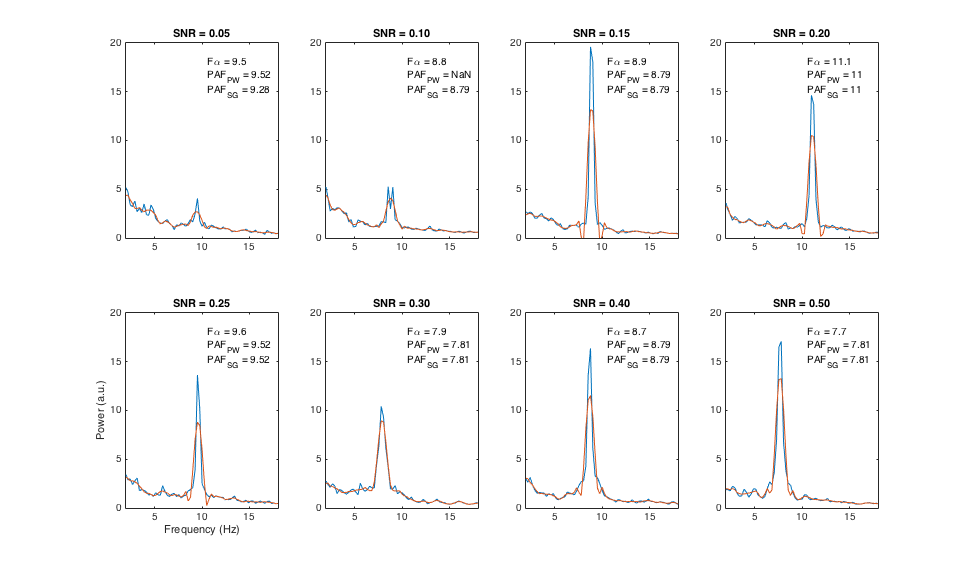
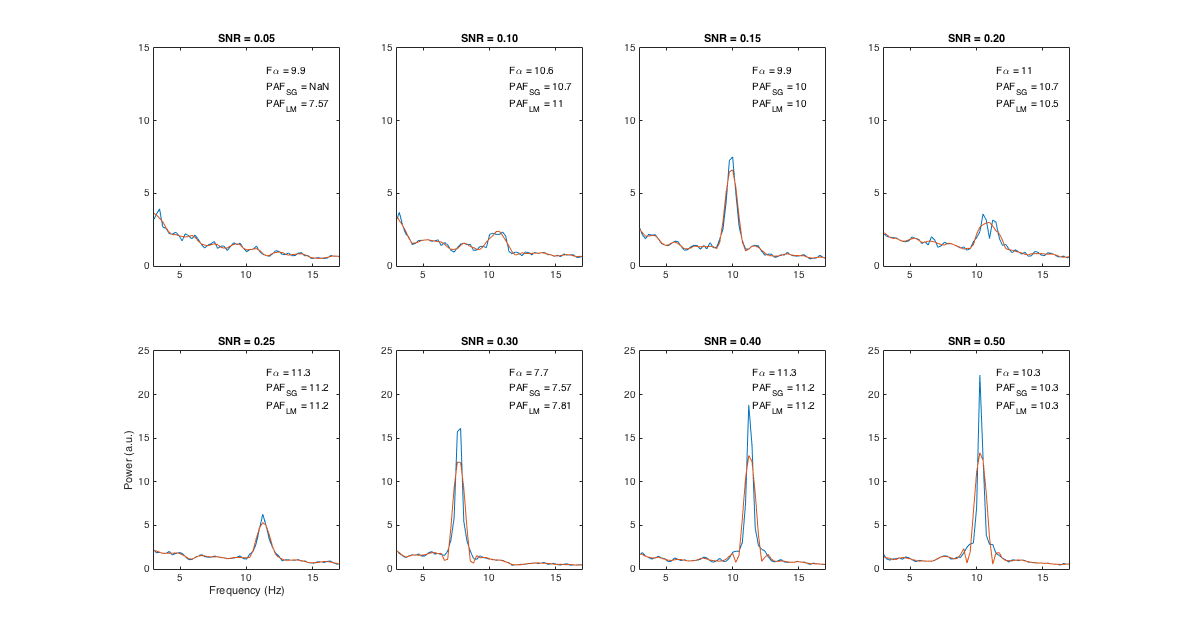
introduce local max routine into prelim sims

diff --git a/iaf_manu.md b/iaf_manu.md
@@ -69,7 +69,7 @@ The definition of both $A$ and $\phi$ pose non-trivial problems (more on which s
 PAF estimates are typically extracted from parieto-occipital EEG channels while the participant relaxes with their eyes closed.
 This strategy exploits the classic observation that alpha oscillations dominate EEG recorded over centro-posterior scalp regions when visual sensory input is suppressed [@barry2007;@sadaghiani2016].
 Although PAF can often be rapidly ascertained upon visual inspection of the PSD function ([Fig_pafs](#pafs)), this approach to IAF extraction is inefficient and potentially impractical when dealing with large datasets [@chiang2008;@goljahani2012]. 
-Moreover, it is well documented that a sizeable proportion of individuals fail to manifest an unambiguous PAF, on account of their being either two (or more) peaks within the alpha band [so-called ‘split-peaks’; @chiang2011], or a general absence of prominant alpha-band activity [e.g., @anokhin1996] (see [Fig_bad_pafs](#bad_pafs)).
+Moreover, it is well documented that a sizeable proportion of individuals fail to manifest an unambiguous PAF, on account of their being either two (or more) peaks within the alpha band [so-called ‘split-peaks’; @chiang2011], or a general absence of prominent alpha-band activity [e.g., @anokhin1996] (see [Fig_bad_pafs](#bad_pafs)).
 Under the former circumstances, the adjudicator<!-- AC: this term has proved controversial. i deliberately wanted to underscore the tacit subjectivity involved in judging whether a given PSD manifests a (singular) peak. i'm open to alteratives but would like to retain this connotation, if possible. --> must decide whether a single, primary peak can be justifiably discerned amidst competing peak candidates; under the latter, they must determine whether the signal is too noisy to derive reliable inferences pertaining to the IAF. 
 Relating back to the PAF formulation outlined above, these scenarios can be construed as the problem of evaluating whether the $\phi$ criterion has been satisfied (or alternatively, of determining the correct threshold level where this criterion ought to be located).
 Such cases may be prone to biased or inconsistent assessment [@chiang2008], pose significant challenges to replicability, and can result in the exclusion of a substantial subset of participants from IAF-related analyses [see for e.g., @bornkessel-schlesewsky2015].
@@ -130,7 +130,7 @@ The first method, which we refer to as peak attenuation, was described by Posthu
 Similar in principle to Klimesch's [-@klimesch1999] delineation of the TF, this technique simply subtracts eyes-oped PSD estimates from the corresponding ordinates of the eyes-closed PSD within some a priori-defined target region (typically, this interval is extended beyond the canonical alpha bandwidth; e.g., 7–14 Hz).
 The resulting peak, which constitutes the maximal power difference between the two spectra, is taken as the PAF ([Fig_blocking](#blocking), top row). 
 To avoid trivial peaks arising from small fluctuations in the PSD, Posthuma and colleagues [-@posthuma2001] excluded spectra that featured consistent low power (< 1.5 $\mu$V/Hz) within the alpha-band.
-It isn’t clear, however, whether this criterion (which is analagous to the $\phi$ parameter in the PAF equation defined above) was also applied in cases where the maximal difference between spectra was similarly small (i.e. where both spectra present a substantive, approximately overlapping alpha-band component).
+It isn’t clear, however, whether this criterion (which is analogous to the $\phi$ parameter in the PAF equation defined above) was also applied in cases where the maximal difference between spectra was similarly small (i.e. where both spectra present a substantive, approximately overlapping alpha-band component).
 Posthuma and colleagues [-@posthuma2001] also remarked that peak attenuation estimates deviated from eyes-closed resting-state PAFs in 21% of cases. 
 This lack of convergence, coupled with the observation that peak attenuation may lead to distorted representations of the PAF when the assumption of significant eyes-open alpha desynchronisation fails to obtain [see [Fig_blocking](#blocking), central and bottom row; cf. @gaal2010; @kreitman1965], suggests peak attenuation may constitute a suboptimal IAF estimator (at least insofar as IAF is conceived in terms of the PAF).
 
@@ -323,7 +323,7 @@ This criterion was formalised as follows:
 $$f_1 = f’(x) < |1| \text{ for } f(x_{j}...x_{k}),$$ 
 $$f_2 = f’(x) < |1| \text{ for } f(x_{k}...x_{l}),$$
 
-where $f(x_k)$ is the first encountered frequency bin where $f’(x) < -1$, $f(x_{j})$ is the frequency bin whose centre frequency is ~1 Hz below that of $f(x_{k})$, and $f(x_{l})$ is the frequency bin whose centre frequency is ~1 Hz above that of $f(x_{k})$ (exact scaling will depend on the frequency resolution of the analysis). <!-- AC: ? better way to notate this -->
+where $f(x_k)$ is the first encountered frequency bin where $f’(x) < |1|$, $f(x_{j})$ is the frequency bin whose centre frequency is ~1 Hz below that of $f(x_{k})$, and $f(x_{l})$ is the frequency bin whose centre frequency is ~1 Hz above that of $f(x_{k})$ (exact scaling will depend on the frequency resolution of the analysis). <!-- AC: ? better way to notate this -->
 $f_1$ and $f_2$ estimates from each eligible channel are averaged to yield the individualised alpha window.
 This window defines the index of summation (i.e. frequency band coverage) used to calculate the CoG across all available channels.
 
@@ -415,9 +415,14 @@ Hence, for an SNR of 1, each sample point of the composite signal was the produc
 
 We examined PAF estimation at SNR = 0.05, 0.10, 0.15, 0.20, 0.25, 0.30, 0.40, and 0.50.
 For each set of simulations, 1000 PSD estimates were generated using the afore-described method of embedding a singular alpha component within a pink noise signal.
-The frequency of each alpha signal was randomly assigned by sampling (with replacement) a vector of frequency values ranging from 7.5 to 12.5 Hz in 0.1 Hz interations.
+The frequency of each alpha signal was randomly assigned by sampling (with replacement) a vector of frequency values ranging from 7.5 to 12.5 Hz in 0.1 Hz iterations.
 Given that the target alpha peak consisted of a single frequency component, we expected the peak estimation routine to perform with a high degree of accuracy (within the limits of spectral resolution) when a peak could be discriminated from background spectral noise.
 We were however particularly interested in establishing the proportion of spectral peaks that would be detected across various levels of SNR.
+
+To provide a point of contrast against which the performance of the SGF method of PAF estimation could be compared, we also applied a simpler peak detection routine to the simulation data.
+This latter approach implemented a straightforward local optimisation routine, which amounted to searching a specified region of the PSD (i.e. the same frequency interval searched by the SGF routine) for the frequency bin containing $\text{max } f(x)$, the local maximum.
+Further, this local optimum function also evaluated whether the putative peak power estimate was indeed greater than the power estimates in both adjacent frequency bins.
+This feature thus ensured that any suprema at the bounds of the alpha interval were detected, making it functionally equivalent to stipulating that the local maximum must coincide with the occurrence of a downward going zero crossing in the first derivative to qualify as a legitimate peak.
 
 #### 2.4.3 Simulation of heterogeneous alpha-band activity within multi-channel datasets
 To ascertain how the SGF method performs when the target alpha peak is more broadly dispersed, we simulated datasets that were comprised of a randomly selected alpha peak situated at the centre of an approximately Gaussian-distributed set of neighbouring frequency components.
@@ -480,47 +485,64 @@ This finding, which extends that reported in a smaller sample by Jann, Koenig, D
 ### 3.2 Simulated EEG data
 
 #### 3.2.1 PAF estimation performance as a function of SNR
-Preliminary analysis of synthetic channel data focused on the number of PAF estimates extracted for each level of SNR, and how well these estimates approximated the ground truth as stipulated by the alpha frequency sine wave component of the simulated signal (see Table for summary statistics across SNR conditions).
-While the SGF technique failed to extract PAF estimates from almost one-third of simulations when SNR = 0.05, the proportion of estimated alpha peaks rapidly approached ceiling as SNR increased beyond 0.10.
-RMSE was generally low for all levels of SNR, suggesting that alpha peaks were on average estimated with a high degree of accuracy when detected by the analysis routine.
-The SGF technique approached near-optimal performance at SNR = 0.20, in which 1% of simulated spectral peaks were either undetected or located within an adjacent frequency bin.
-The routine performed optimally at SNR ≥ 0.30 (with the exception of one undetected peak at SNR = 0.30).
-At this level of SNR, all alpha peak components were correctly estimated within the limits of the stipulated frequency resolution (~0.24 Hz bin intervals). 
+Preliminary analysis of synthetic channel data focused on the number of PAF estimates extracted for each level of SNR, and how well these estimates approximated the ground truth as stipulated by the alpha frequency sine wave component of the simulated signal (see Table for summary statistics of PAF estimator performance across SNR conditions).
+While the SGF technique failed to extract PAF estimates for approximately one-third of simulations at SNR = 0.05, the proportion of estimated alpha peaks rapidly approached ceiling as SNR increased beyond 0.10.
+RMSE was generally low for all levels of SNR, suggesting that alpha peaks were consistently estimated with a high degree of accuracy when detected by the SGF analysis routine.
+Between 1-2% of PAF estimates in the SNR < 0.15 conditions deviated from their target frequencies by the equivalent of up to 3 frequency bins (resolution = ~0.24 Hz).
+Given the rareness of these frequency bin shifts in the higher SNR conditions, and the relatively low magnitude of such deviations when they did occur, it seems that the SGF technique exhibited near-optimal performance at SNR ≥ 0.20
 
-Table: Summary statistics characterising peak alpha frequency (PAF) estimation as a function of signal-to-noise ratio (SNR). 
-*n PAF*: total number of PAF estimates extracted from 1000 simulated time series; *RMSE*: root mean squared error of PAF estimates; *maxDiff*: maximum absolute difference between PAF estimates and corresponding frequency (Hz) of underlying alpha-band component; *n shift*: number of PAF estimates that diverged from the target alpha frequency by more than 0.24 Hz, the frequency resolution of the analysis.
+Table: Summary statistics characterising peak alpha frequency (PAF) estimation as a function of estimation method signal-to-noise ratio (SNR). 
+*$PAF_{SG}$*: PAF estimated via the Savitzky-Golay smoothing method; *$PAF_{LM}$*: PAF estimated by locating the local maximum within the 7 to 13 Hz range of the power spectrum; *n PAF*: total number of PAF estimates extracted from 1000 simulated time series; *RMSE*: root mean squared error of PAF estimates; *maxDiff*: maximum absolute difference between PAF estimates and corresponding frequency (Hz) of underlying alpha-band component; *n shift*: number of PAF estimates that diverged from the target alpha frequency by more than 0.24 Hz, the frequency resolution of the analysis.
 
 | SNR | 0.05 | 0.10 | 0.15 | 0.20 | 0.25 | 0.30 | 0.40 | 0.50 |
 |---|---|---|---|---|---|---|---|---|
-| *n PAF* | 672 | 914 | 988 | 993 | 998 | 999 | 1000 | 1000 |
-| *RMSE* | 0.12 | 0.10 | 0.09 | 0.07 | 0.08 | 0.07 | 0.07 | 0.07 |
-| *maxDiff* | 1.13 | 0.78 | 0.68 | 0.40 | 0.40 | 0.15 | 0.16 | 0.15 |
-| *n shift* | 25 | 19 | 10 | 3 | 5 | 0 | 0 | 0 |
+|**n PAF** | | | | | | | | |
+|$PAF_{SG}$ | 659 | 955 | 997 | 1000 | 1000 | 1000 | 1000 | 1000 |
+|$PAF_{LM}$ | 985 | 1000 | 1000 | 1000 | 1000 | 1000 | 1000 | 1000 |
+|**RMSE** | | | | | | | | |
+|$PAF_{SG}$ | 0.09 | 0.09 | 0.08 | 0.07 | 0.07 | 0.07 | 0.07 | 0.07 |
+|$PAF_{LM}$ | 1.06 | 0.22 | 0.10 | 0.08 | 0.07 | 0.07 | 0.07 | 0.07 |
+|**maxDiff** | | | | | | | | |
+|$PAF_{SG}$ | 0.62 | 0.75 | 0.75 | 0.31 | 0.26 | 0.18 | 0.13 | 0.13 |
+|$PAF_{LM}$ | 5.42 | 4.83 | 0.70 | 0.50 | 0.50 | 0.23 | 0.22 | 0.14 |
+|**n shift** | | | | | | | | |
+|$PAF_{SG}$ | 7 | 14 | 3 | 2 | 1 | 0 | 0 | 0 |
+|$PAF_{LM}$ | 224 | 70 | 29 | 8 | 4 | 0 | 0 | 0 |
 
-Although we were generally interested in observing how the SGF technique performed in comparison to the `pwelch` function on which it depends, this was not of primary concern to the present analysis.
-This was because one should expect the `pwelch` routine to perform well in cases where the alpha-band consists of only one dominiant frequency component, especially if SNR is relatively high (recall that the primary motivation for the SGF approach is to resolve IAF estimates when more ambiguous - and thus problematic - spectral conditions obtain; e.g., split-peaks).
-To give a flavour of how smoothing influenced `pwelch` PSD estimates, a random selection of the PSD functions produced by both methods is illustrated in [Fig_snr](#snr).
-We note that the SGF resulted in a distorted estimate of the true PAF in the SNR = 0.05 simulation depicted in the top left panel of [Fig_snr](#snr) (indeed, this is one case where the standard `pwelch` estimation routine would in fact be preferable in virtue of its superior PAF estimate).
-However, the SNR = 0.10 simulation shows one potential advantage of the SGF technique.
-In this case, the SGF renders a veridical estimate of the underlying alpha component, which otherwise would have been falsely resolved (and rejected) as a split-peak if relying upon `pwelch` estimation.
-At higher SNRs, the two techniques produce identical PAF results (although the SGF attenuates peak height, as would be expected of a smoothing procedure).
+The local maximum (LM) detection routine returned PAF estimates for every simulated spectrum, however 15 estimates in the SNR = 0.05 condition were excluded on the basis that they constituted suprema at the lower bound of $W_\alpha$.
+However, increased rates of PAF detection amongst low SNR conditions were associated with significantly elevated levels of estimate error.
+The LM estimator resulted in a 12-fold increase in average error relative to the SGF technique in the SNR = 0.05 condition.
+Of the 224 estimates that were shifted by more than one frequency bin from their corresponding target frequency, 42 deviated by 1 Hz to 2.5 Hz, while a further 56 deviated by more than 2.5 Hz.
+The LM estimator was also markedly less accurate in the SNR = 0.10 condition, registering more than double the RMSE of the SGF (however, only 6 deviant estimates exceeded their target frequencies by more than 1 Hz).
+Average estimate error converged with that of the SGF technique in higher SNR conditions, although the magnitude of worst estimate errors was typically higher for LM estimated PAFs.
 
-![*Fig_snr.* Synthetic channel spectra randomly selected from each simulated SNR condition. Blue functions represent PSD estimates generated by the standard MATLAB implementation of Welch's modified periodogram method  `pwelch`. Red functions signify the outcome when `pwelch` estimates are subjected to the Savitzky-Golay filter (SGF) technique. $F\alpha$: Target alpha component frequency. $PAF_{PW}$ and $PAF_{SG}$: Estimates of $F\alpha$ rendered by the `pwelch` and SGF methods, respectively. NaN: No estimate returned.](figs/snr.png){#snr}
+To give a flavour of how smoothing may have influenced the PSD estimates generated by `pwelch` at a given SNR level, a selection of PSD functions derived from the simulations reported above is illustrated in [Fig_snr](#snr).
+In many cases (especially at higher SNRs), both techniques return identical PAF estimates (although the SGF attenuates peak height, as would be expected of a smoothing procedure).
+The SNR = 0.30 example reveals one instance where application of the smoothing procedure to a reasonably blunt component results in the erroneous ascription of PAF to a neighbouring frequency bin.
+In this case, simply taking the local maximum within the alpha interval yields a more accurate PAF estimate.
+The advantages of the SGF technique are however thrown into relief by two alternative scenarios in which the LM estimator errs.
+The first of these is exemplified by the SNR = 0.05 example, where LM identifies a spurious fluctuation about 7.57 Hz as the PAF (target PAF = 9.9 Hz).
+Here, the LM technique is disadvantaged by its inability to evaluate whether local maxima constitute a substantial deviation from background noise.
+The second situation issues from the suboptimal resolution of the target component by `pwelch`, resulting in either a broad component structure (SNR = 0.10, [Fig_snr](#snr)) or a split-peak (SNR = 0.20, [Fig_snr](#snr)).
+In both cases, smoothing helps to recover the underlying peak, culminating in more veridical PAF estimates than those derived via the LM method.
 
-Ten percent of the simulation data that failed to produce PAF estimates in the SNR = 0.05 condition were randomly selected for visual inspection to evaluate the cause of these omissions.
+![*Fig_snr.* Synthetic channel spectra sampled from each simulated SNR condition. Blue functions represent PSD estimates generated by the standard MATLAB implementation of Welch's modified periodogram method `pwelch`. Red functions signify the outcome when `pwelch` estimates are subjected to the Savitzky-Golay filter (SGF) technique. $F\alpha$: Target alpha component frequency. $PAF_{SG}$ and $PAF_{LM}$: Estimates of $F\alpha$ rendered by the SGF and local maximum methods, respectively. NaN: No estimate returned.](figs/snr.png){#snr}
+
+<!-- Ten percent of the simulation data that failed to produce PAF estimates in the SNR = 0.05 condition were randomly selected for visual inspection to evaluate the cause of these omissions.
 This analysis confirmed that the vast majority of these spectra lacked a distinct alpha peak (irrespective of the PSD estimation method adopted).
 Five of the spectra within this subset were rejected due to the appearance of more than one spectral peak within the alpha window (none of which were clearly dominant).
-Overall, it seems unlikely that any of these spectra would be considered to satisfy the criteria for PAF assignment as stipulated in section 1.1.<!-- AC: ? make plots available in supp mats -->
+Overall, it seems unlikely that any of these spectra would be considered to satisfy the criteria for PAF assignment as stipulated in section 1.1.
+
 Visual inspection of the 25 PAF estimates that deviated most from their target frequencies within the 0.05 SNR condition confirmed that SGF estimates generally tracked their corresponding `pwelch` counterparts closely.
 Where smoothed estimates were relatively distorted (i.e. displaced into a neighbouring frequency bin due to the influence of spurious local fluctuations), the more accurate `pwelch` estimate was by the same token disadvantaged by having to compete with these nearby spectral subpeaks.
 For the most part, then, the least accurate estimates rendered via the SGF technique did not appear to be substantially worse than what would otherwise have been estimated via the `pwelch` technique. 
-
+-->
 In sum, this preliminary analysis provides strong initial evidence that the SGF method generally furnishes highly accurate estimates of the PAF when a singular alpha component is present within the PSD.
 This degree of accuracy is maintained even at relatively low levels of SNR, although reliable resolution of low powered spectral peaks amidst background noise becomes more challenging when SNR drops below 0.15 (at least when the SGF technique is implemented with the same parameters as those used in our analysis of the empirical EEG data).
 Diminished sensitivity at low levels of SNR seems to derive from a generic reduction in the capacity of the underlying `pwelch` routine to accurately extract low powered alpha components under such conditions, rather than any specific deficiency inherent to the SGF procedure per se.
 
 #### 3.2.2 Multi-channel dataset simulations
-Given that PAF estimation approached ceiling performance at moderate levels of SNR in the previous analysis, we limited our analysis of multi-channel simulaton data to a low (0.15) and a moderate (0.40) SNR condition. 100 datasets, each comprising 9 synthetic EEG channels, were simulated for each of the three levels of alpha component dispersal in both SNR conditions (resulting in a total 5400 PSD estimates).
+Given that PAF estimation approached ceiling performance at moderate levels of SNR in the previous analysis, we limited our analysis of multi-channel simulation data to a low (0.15) and a moderate (0.40) SNR condition. 100 datasets, each comprising 9 synthetic EEG channels, were simulated for each of the three levels of alpha component dispersal in both SNR conditions (resulting in a total 5400 PSD estimates).
 The results of this analysis are summarised in Table 2.
 
 Table: PAF and CoG estimator performance as a function of SNR (0.40 vs. 0.15) and alpha component distribution (4.0 vs. 2.5 vs. 1.0). Synthetic alpha components were constructed from a set of oscillatory signals that were sampled using a Gaussian windowing function. The inverse standard deviation of this function was parametrically varied (where $\alpha$ = 4.0 corresponds to a narrow peak, $\alpha$ = 1.0 a broad peak). *$PAF_{PW}$*: PAF estimated via averaging of channel-wise PSD estimates furnished by `pwelch`; *$PAF_{SG}$*: PAF estimated via averaging of Savitzky-Golay smoothed, Q-weighted channel-wise PSD estimates; *$CoG$*: CoG estimated by SGF routine; *RMSE*: root mean squared error of PAF/CoG estimates; *maxDiff*: maximum absolute difference (Hz) between PAF/CoG estimates and corresponding peak frequency of underlying alpha-band component; *% Dev*: percentage of PAF/CoG estimates that diverged from the target alpha frequency by more than 0.5 Hz; *n chans*: median number of channel estimates per simulated dataset retained for estimating PAF/CoG window.
@@ -555,7 +577,7 @@ The average number of simulated channels that contributed to the calculation of 
 The number of channels in which a viable alpha peak was detected also demonstrated greater variability as function of both alpha distribution and SNR, with broader component structures and low SNR both associated with increased volatility of channel selection.
 Together with the consistent trends towards increased estimation error described above, these observations support the notion that broader, flatter alpha peaks pose a greater challenge to automated PAF detection (even under moderate levels of SNR).
 By contrast, the SGF routine was able to extract CoG estimates for all  simulated datasets, and derived alpha window estimates from a higher proportion of channel data across all conditions.
-Indeed, channel inclusion was close to ceiling for the moderate SNR conditions, and remained high despite increasing variability as a funtion of broader alpha component dispersal in the low SNR conditions.
+Indeed, channel inclusion was close to ceiling for the moderate SNR conditions, and remained high despite increasing variability as a function of broader alpha component dispersal in the low SNR conditions.
 
 Amongst the two methods for estimating PAF, the Savitzky-Golay smoothed, Q-weighted average estimates were consistently less error-prone (i.e. registered lower RMSEs across conditions) than those derived by averaging across the 'raw' (i.e. unsmoothed) channel-wise PSDs generated by `pwelch`.
 The latter approach also produced more extreme deviations from the target PAF in all but the least favourable simulation condition (i.e. SNR = 0.15, $\alpha$ = 1.0), in which the maximum error magnitude was roughly equal to that of the SGF technique.
@@ -588,7 +610,7 @@ This outcome suggests the technique might offer meaningful benefits over traditi
 We note also that our SGF method resulted in a higher proportion of PAF estimates than that produced by the Gaussian curve-fitting procedure implemented by Haegens and colleagues [-@haegens2014].
 It may be the case then that our non-parametric approach, which attempts to smooth the PSD rather than fit a specified function to it, retains more data (i.e. excludes fewer individuals from IAF-related analyses) by virtue of its capacity to accommodate a broader range of alpha-band distributions.
 
-While we cannot categorically rule out the possiblity that sampling error furnished us with a dataset comprised of an unusually high number of individuals manifesting singular, unambiguous alpha peaks, it is encouraging that the SGF technique was able to estimate such a high proportion of PAFs and CoGs.
+While we cannot categorically rule out the possibility that sampling error furnished us with a dataset comprised of an unusually high number of individuals manifesting singular, unambiguous alpha peaks, it is encouraging that the SGF technique was able to estimate such a high proportion of PAFs and CoGs.
 By the same token, it is also reassuring that the two cases in which the technique was not able to extract PAF estimates did not demonstrate compelling evidence of any concerted alpha-band activity on visual inspection of the relevant PSD plots ([Fig_no_pafs](#no_pafs)).
 It is perhaps also worth pointing out that the diverse age range of participants sampled within this study would most likely have posed a robust challenge to any automated peak frequency routine, given the typically reported changes in spectral power and alpha peak distribution associated with older adulthood [e.g., @dustman1999].
 That the automated IAF estimation technique reported here was able to extract estimates for the vast majority of individuals, and that it did so using a fixed set of a priori-defined parameters assigned on the basis of preliminary testing in an independent dataset, speaks to its capacity to derive resting-state IAF estimates across a broad spectrum of the healthy population.
@@ -608,14 +630,19 @@ It is of course a notable advantage of the present method that it enables resear
 To the best of our knowledge, no other automated technique provides the functionality to simultaneously compute both of these IAF estimators.
 
 ### 4.2 Estimation of simulated IAFs
-Our preliminary set of simulations showed that the SGF technique performed almost perfectly when 2 min synthetic signals contained at least 24 s of alpha-band oscillations (SNR = 0.20).
-Indeed, the peak detection routine performed reasonably well when signals contained as little as 12 s of alpha-band activity, with fewer than 2% of simulated peaks being erroneously estimated.
-This analysis served as a basic proof of concept insofar as it demonstrated the SGF method as being capable of extracting a high proportion of underlying peak frequencies without introducing systematic bias.
-We acknowledge however that the estimation of sharply defined, single frequency alpha components is unlikely to be representative of genuine electrophysiological data in the vast majority of cases.
-Indeed, if spectral data typically conformed to this pattern, distinguising the PAF would prove rather trivial (thus obviating the need for the SGF technique).
-While it is encouraging then that the SGF technique performed well in these favourable conditions, it was necessary to demonstrate its capabilities when confronted with more complex, ecologically valid simulation data.
+Our preliminary set of simulations showed that the SGF technique approached an optimal level of performance when 2 min synthetic signals featured at least 24 s of alpha-band oscillations (SNR = 0.20).
+Indeed, the peak detection routine performed reasonably well when signals contained as little as 12 s of alpha-band activity, with fewer than 6% of simulated alpha components either going undetected or being erroneously estimated by more than one frequency bin.
+Interestingly, our analysis shows that less sophisticated approaches to peak estimation can result in substantial error at comparably low levels of SNR.
+It is likely that many of these inaccurate estimates were attributable to spurious local maxima within noisy fluctuations in background spectral activity.
+It is a strength of the SGF technique, then, that it applies more stringent criteria when evaluating peak candidates.
+In our view, it is preferable that an automated peak detection routine should reject spectra showing inconclusive evidence of any concerted alpha-band activity, rather than generate highly deviant estimates of the true underlying (albeit weak) signal.
 
-The multichannel simulations were designed to be more faithful to empirical resting-state EEG data, in as much as they were comprised of both a range of alpha components [thus emulating the multiple alpha generators supposed to underlie the dominant rhythm; @basar1997; @basar2012; @klimesch1999], and a variety of correlated (but nonidentical) spectral estimates of these composite signals.
+In addition to demonstrating that the SGF technique performs consistently well in low-to-moderate SNR conditions, our analysis also confirmed that the application of this smoothing procedure did not cause excessive distortion of PAF estimates.
+Consequently, this preliminary set of simulation data stands as a basic proof of concept that the SGF method is capable of extracting a high proportion of underlying peak frequencies without introducing systematic bias.
+We acknowledge however that the estimation of sharply defined, single frequency alpha components is unlikely to be representative of genuine electrophysiological data in many contexts.
+While it is encouraging then that the SGF technique performed well in these reasonably favourable conditions, it was necessary to demonstrate its capabilities when confronted with more complex, ecologically valid simulation data.
+
+The multi-channel simulations were designed to be more faithful to empirical resting-state EEG data, in as much as they were comprised of both a range of alpha components [thus emulating the multiple alpha generators supposed to underlie the dominant rhythm; @basar1997; @basar2012; @klimesch1999], and a variety of correlated (but nonidentical) spectral estimates of these composite signals.
 This manipulation also enabled us to examine the accuracy of CoG estimates, which in the context of Gaussian-distributed alpha components should ideally converge with PAF.
 The critical finding across all simulation conditions was that the SGF technique rendered PAF and CoG estimates that almost always improved upon PAF estimates derived from automated searches of averaged, unsmoothed channel spectra.
 This finding held irrespective of whether estimator performance deficits were quantified in terms of the average error across simulated datasets, the magnitude of worst (i.e. most deviant) estimate errors, or the percentage of estimates in the dataset that deviated from the ground truth by more than 0.5 Hz.
